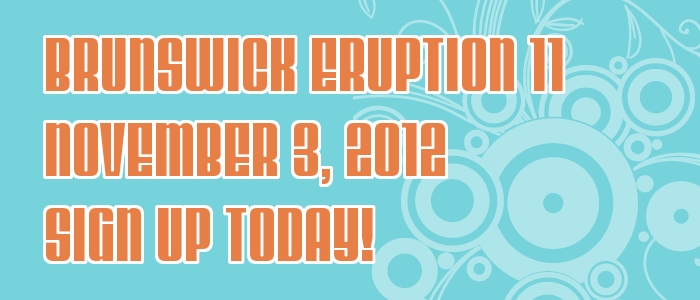
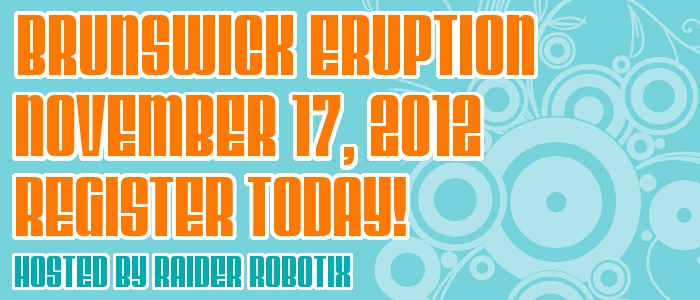
Cleaning up after hurricane Sandy...

diff --git a/index.html b/index.html
@@ -124,11 +124,24 @@
 	</script>
 	<div class="homepageAnnouncement alert alert-error alert-block fade in">
 		<button type="button" class="close" data-dismiss="alert">x</button>
-		<h4 class="alert-heading"">Brunswick Eruption vs. Hurricane Sandy</h4>
-		<p class="text-info"><strong>NBTHS has power.</strong> We're currently planning the event as though it will
-		happen, but will not receive an official decision from our school board about whether or not the
-		event will be canceled until sometime tomorrow (Nov. 1). Please stay tuned. If your team cannot attend BE due
-		to school closures or damage from the hurricane, please let us know by e-mailing brunswickeruption@gmail.com.</p>
+		<h4 class="alert-heading"">Brunswick Eruption Postponed</h4>
+		<p>With the widespread devastation from Hurricane Sandy and our school sitting powerless we
+		sadly need to postpone BE to November 17th (pending approvals)</p>
+
+		<p>Folks wouldn't believe the state of things here in NJ. We know numerous people along the
+		coast who are now homeless. Power MAY be back in the coming week. Many of the major roads
+		are blocked with downed lines and trees.</p>
+
+		<p>Anyway we hope to see all 42 teams come back in two weeks. Please pass the word about the
+		change to those you know. Teams please contact either Bharat (bharatnain@gmail.com),
+		Kristian (kristian.calhoun@gmail.com) or I (smwonder@comcast.net) to confirm your team's
+		attendance on the 17th. And if you have a team still looking to get in I suspect there will
+		be slots available. Follow the Brunswick Eruption website for the latest news.</p>
+
+		<p>Hope all is well with our neighbors. Take care of home and family first- then we play
+		robots</p>
+
+		<p>WC</p>
 	</div>
 	<div class="homepageAnnouncement alert alert-success fade in" style="background: #FFF;">
 		<button type="button" class="close" data-dismiss="alert">x</button>

diff --git a/register.html b/register.html
@@ -117,12 +117,18 @@
                 <div id="registration">
                 </br>
                 <h3 class="centered">Registration</h3>
-                <p class="centered">*Brunswick Eruption 11 will take place on November 3rd, 2012*</p>
+                <p class="centered">*Brunswick Eruption 11 is being rescheduled for November 17th, 2012*</p>
                 <p>FTC teams interested in participating in the practice day scrimmage at this year's Brunswick Eruption 
                 should e-mail Vince Frascella at <a href="mailto:vincent.frascella@baesystems.com">vincent.frascella@baesystems.com</a>.</p>
 
-<p><strong>September 19th Update:</strong><br/>
-<strong style="color:#F00;">Registration for Brunswick Eruption 11 is full!</strong> Any teams that register will be placed on the <a href="teams.html">waiting list</a> and will be invited to compete on a first-come, first-served basis if any slots open up.</br></br>
+				<p><strong>November 1st Update:</strong><br/>
+				<strong style="color:#F00;">If your team was previously registered for BE, please email brunswickeruption@gmail.com to confirm your team's attendance for the new Nov. 17th date.
+				</br>
+				If your team was not previously registered, but would like to attend the Nov. 17th event, we have a number of openings due to cancellations. Please register using the form below.
+				</strong>
+				</br>
+				</p>
+
                 <p>The fee to register your FRC team is $200. 
                 If you bring a pre-rookie along (and lend them a robot to compete with), you get a $100 discount, which means you only have to pay $100. If you bring two pre-rookies, your registration is free. All pre-rookies get in for free. Payment details as follows:</p>
                 <h4>Make Checks payable to:</h4>

diff --git a/agenda.html b/agenda.html
@@ -82,7 +82,7 @@
         </div>
 	</div>
 		<div class="mainContent">
-			<p class="centered">*Brunswick Eruption 11 will take place on November 3rd, 2012*</p>
+			<p class="centered">*Brunswick Eruption 11 will take place on November 17th, 2012*</p>
 			<h3 class="centered">Tentative Event Schedule</h3>
 			<div id="schedule">
 			7 AM - Doors open / Robot Load-In</br>
